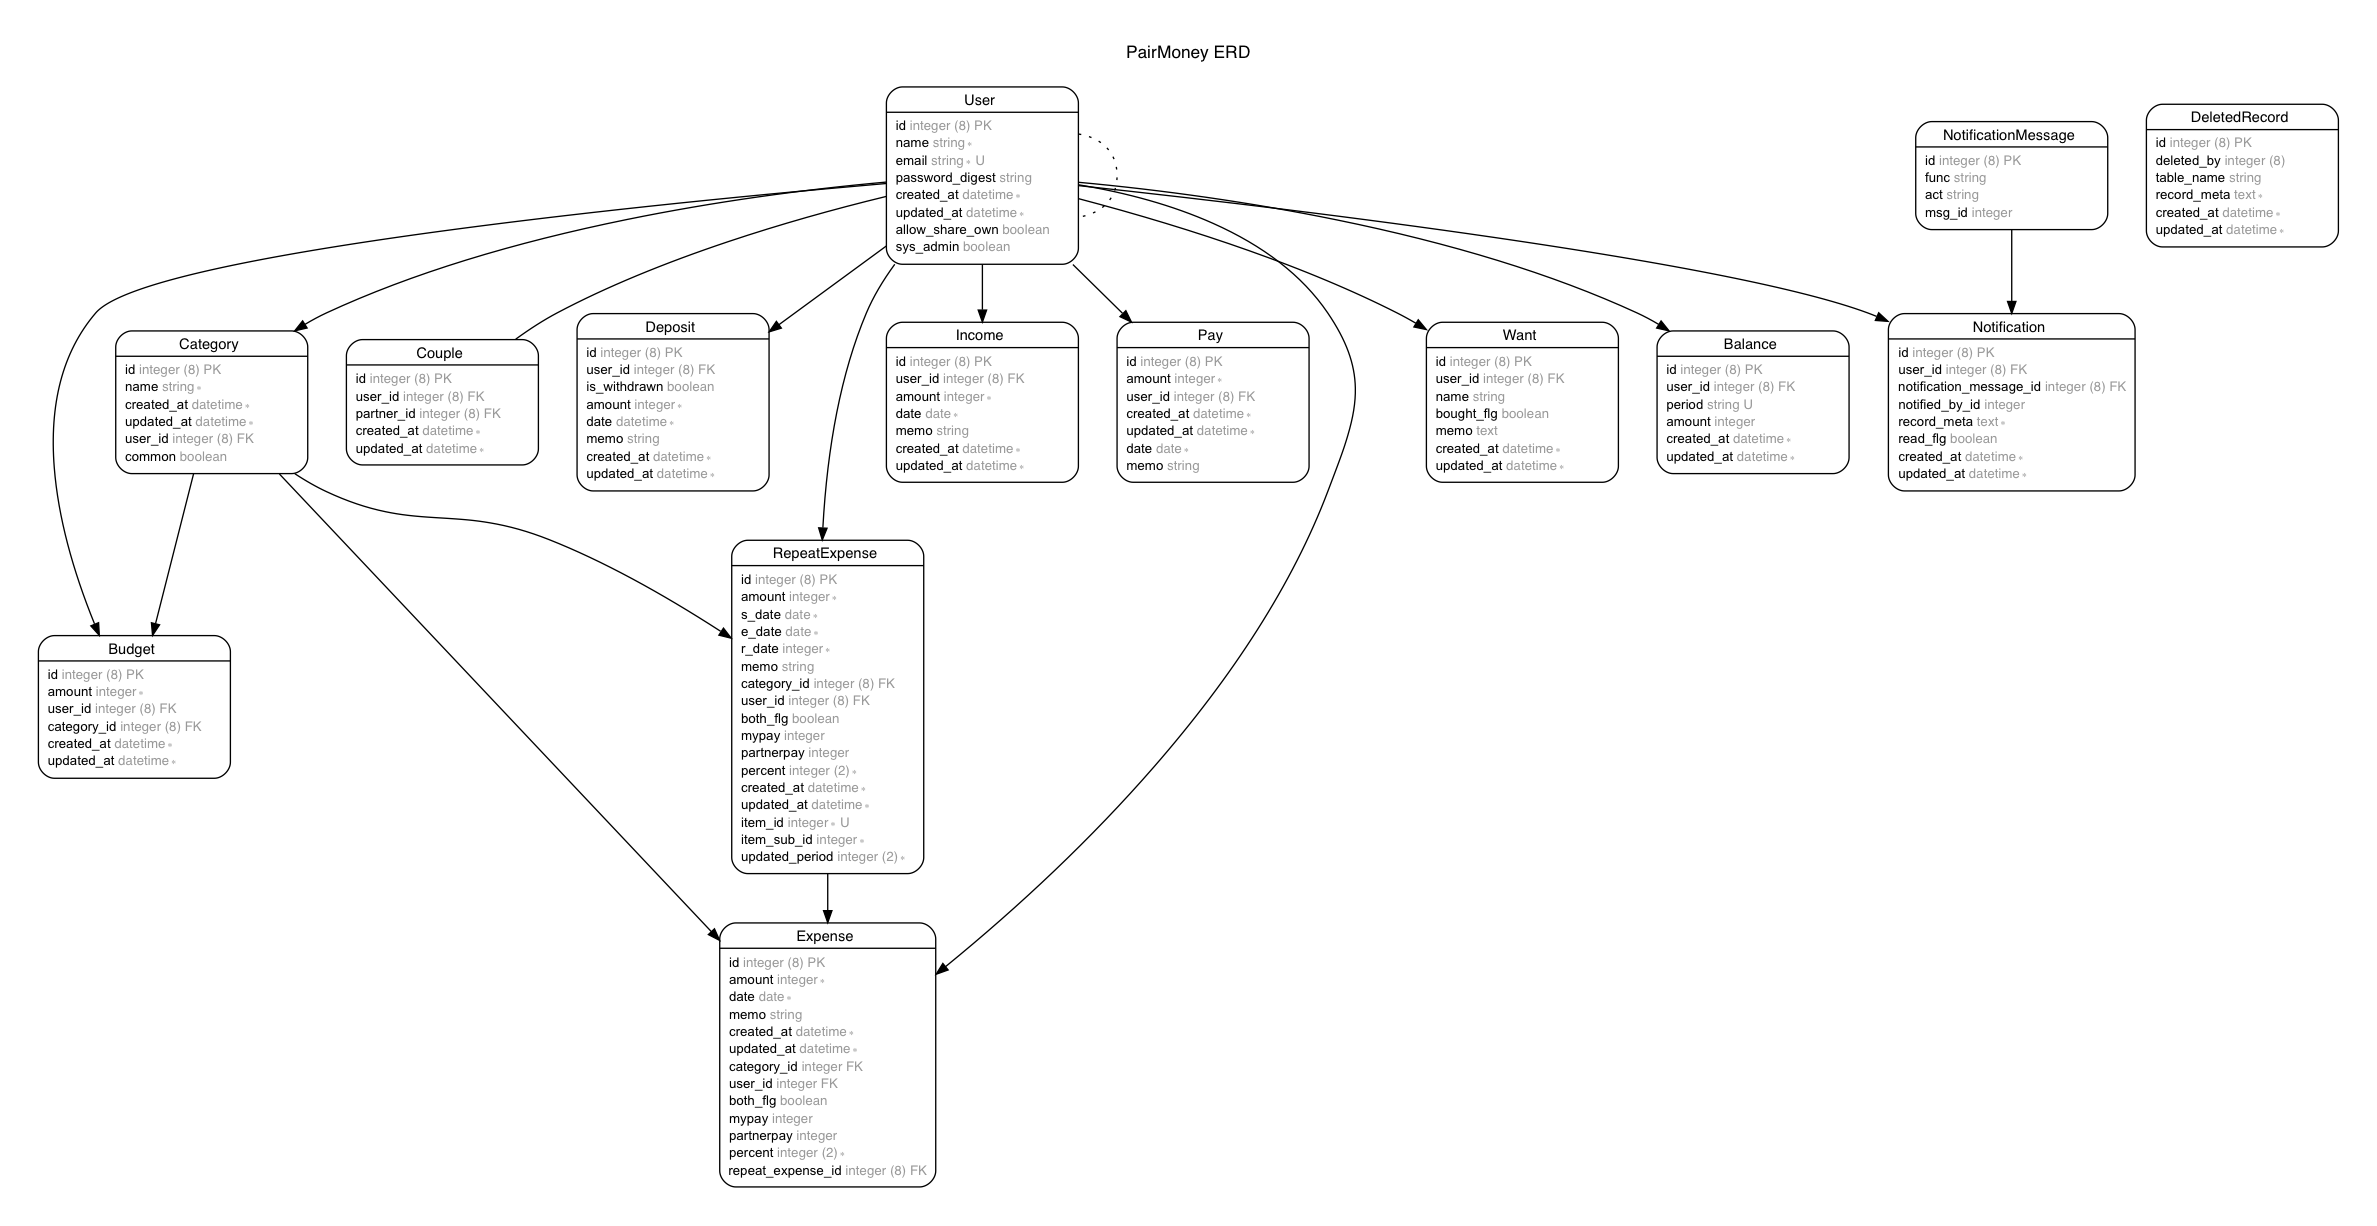
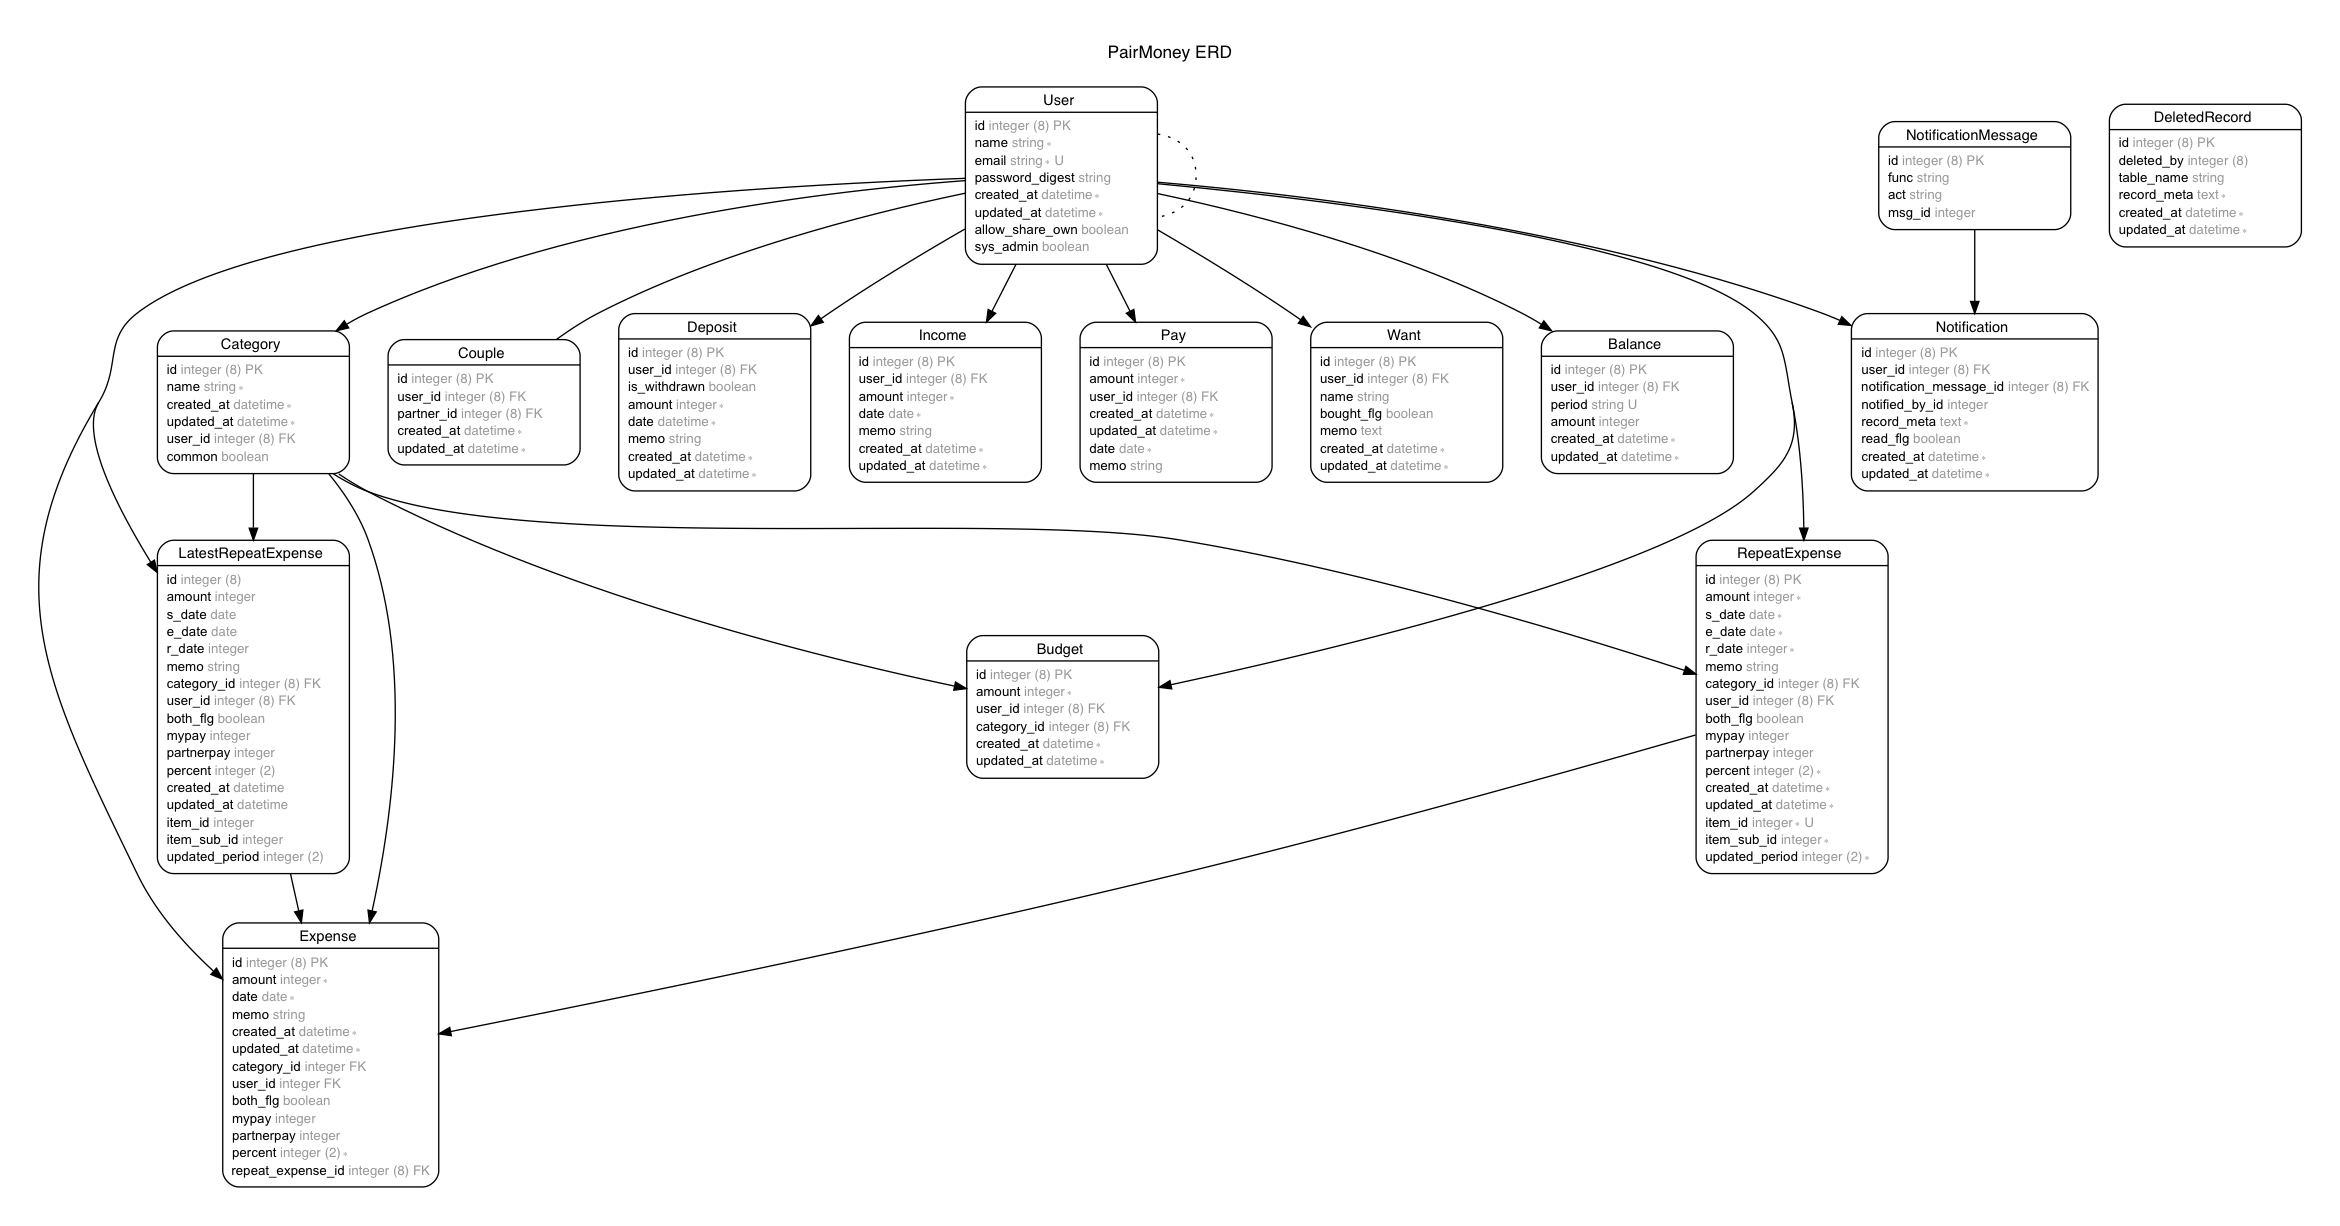
repeat_expense#indexで常に最新の繰り返し出費を表示 #56

diff --git a/app/assets/stylesheets/repeat_expenses.css b/app/assets/stylesheets/repeat_expenses.css
@@ -1,3 +1,9 @@
+.each-repeat-expense{
+  padding: 10px !important;
+}
+.over-end-date{
+  background-color: gray;
+}
 .own-or-both-icon{
   float: left;
   width: 15px;

diff --git a/db/schema.rb b/db/schema.rb
@@ -10,7 +10,7 @@
 #
 # It's strongly recommended that you check this file into your version control system.
 
-ActiveRecord::Schema.define(version: 2019_06_28_233621) do
+ActiveRecord::Schema.define(version: 2019_06_29_003259) do
 
   # These are extensions that must be enabled in order to support this database
   enable_extension "plpgsql"
@@ -187,4 +187,31 @@ ActiveRecord::Schema.define(version: 2019_06_28_233621) do
   add_foreign_key "repeat_expenses", "categories"
   add_foreign_key "repeat_expenses", "users"
   add_foreign_key "wants", "users"
+
+  create_view "latest_repeat_expenses", sql_definition: <<-SQL
+      SELECT repeat_expenses_a.id,
+      repeat_expenses_a.amount,
+      repeat_expenses_a.s_date,
+      repeat_expenses_a.e_date,
+      repeat_expenses_a.r_date,
+      repeat_expenses_a.memo,
+      repeat_expenses_a.category_id,
+      repeat_expenses_a.user_id,
+      repeat_expenses_a.both_flg,
+      repeat_expenses_a.mypay,
+      repeat_expenses_a.partnerpay,
+      repeat_expenses_a.percent,
+      repeat_expenses_a.created_at,
+      repeat_expenses_a.updated_at,
+      repeat_expenses_a.item_id,
+      repeat_expenses_a.item_sub_id,
+      repeat_expenses_a.updated_period
+     FROM (repeat_expenses repeat_expenses_a
+       JOIN ( SELECT repeat_expenses.item_id,
+              max(repeat_expenses.item_sub_id) AS max_item_sub_id
+             FROM repeat_expenses
+            GROUP BY repeat_expenses.item_id) repeat_expenses_b ON (((repeat_expenses_a.item_id = repeat_expenses_b.item_id) AND (repeat_expenses_a.item_sub_id = repeat_expenses_b.max_item_sub_id))))
+    WHERE (repeat_expenses_a.user_id = ANY (ARRAY[(1)::bigint, (2)::bigint]))
+    ORDER BY repeat_expenses_a.created_at DESC;
+  SQL
 end

diff --git a/app/models/latest_repeat_expense.rb b/app/models/latest_repeat_expense.rb
@@ -1,0 +1,46 @@
+# ## Schema Information
+#
+# Table name: `latest_repeat_expenses`
+#
+# ### Columns
+#
+# Name                  | Type               | Attributes
+# --------------------- | ------------------ | ---------------------------
+# **`id`**              | `bigint(8)`        |
+# **`amount`**          | `integer`          |
+# **`both_flg`**        | `boolean`          |
+# **`e_date`**          | `date`             |
+# **`memo`**            | `string`           |
+# **`mypay`**           | `integer`          |
+# **`partnerpay`**      | `integer`          |
+# **`percent`**         | `integer`          |
+# **`r_date`**          | `integer`          |
+# **`s_date`**          | `date`             |
+# **`updated_period`**  | `integer`          |
+# **`created_at`**      | `datetime`         |
+# **`updated_at`**      | `datetime`         |
+# **`category_id`**     | `bigint(8)`        |
+# **`item_id`**         | `integer`          |
+# **`item_sub_id`**     | `integer`          |
+# **`user_id`**         | `bigint(8)`        |
+#
+
+class LatestRepeatExpense < ApplicationRecord
+  include RepeatExpensesListsDisplayer
+
+  enum percent: { manual_amount: -1, pay_all: 0, pay_half: 1, pay_one_third: 2, pay_two_thirds: 3, pay_nothing: 4 }
+  enum updated_period: { first_item: 0, updated_all: 1, updated_only_future: 2 }
+
+  alias_attribute :is_for_both?, :both_flg
+
+  belongs_to :category
+  belongs_to :user
+  has_many :expenses, dependent: :destroy
+
+  alias_attribute :is_for_both?, :both_flg
+
+  def readonly?
+    true
+  end
+
+end

diff --git a/app/models/expense.rb b/app/models/expense.rb
@@ -35,6 +35,14 @@ class Expense < ApplicationRecord
   include BalanceHelper
   include PercentCalculator
 
+  # todo: これはテーブルを作ってユーザーが自由に変更できるようにする。
+  enum percent: { manual_amount: -1, pay_all: 0, pay_half: 1, pay_one_third: 2, pay_two_thirds: 3, pay_nothing: 4 }
+
+  attr_accessor :is_new, :is_destroyed, :differences
+  alias_method :is_new?, :is_new
+  alias_method :is_destroyed?, :is_destroyed
+  alias_attribute :is_for_both?, :both_flg
+
   belongs_to :user
   belongs_to :category
 
@@ -44,9 +52,6 @@ class Expense < ApplicationRecord
   validates_length_of :amount, :mypay, :partnerpay, maximum: 10
   validates_length_of :memo, maximum: 100
   validate :calculate_amount
-
-  # todo: これはテーブルを作ってユーザーが自由に変更できるようにする。
-  enum percent: { manual_amount: -1, pay_all: 0, pay_half: 1, pay_one_third: 2, pay_two_thirds: 3, pay_nothing: 4 }
 
   end_of_this_month = Date.today.end_of_month
   beginning_of_this_month = Date.today.beginning_of_month
@@ -62,11 +67,6 @@ class Expense < ApplicationRecord
   scope :both_f, -> {where(both_flg: false)}
   scope :both_t, -> {where(both_flg: true)}
   scope :newer, -> {order(date: :desc, created_at: :desc)}
-
-  attr_accessor :is_new, :is_destroyed, :differences
-  alias_method :is_new?, :is_new
-  alias_method :is_destroyed?, :is_destroyed
-  alias_attribute :is_for_both?, :both_flg
 
   after_initialize { self.is_new = true unless self.id }
   before_save :set_differences

diff --git a/app/models/repeat_expense.rb b/app/models/repeat_expense.rb
@@ -16,7 +16,7 @@
 # **`percent`**         | `integer`          | `default("pay_all"), not null`
 # **`r_date`**          | `integer`          |
 # **`s_date`**          | `date`             |
-# **`updated_period`**  | `integer`          | `default(0), not null`
+# **`updated_period`**  | `integer`          | `default("first_item"), not null`
 # **`created_at`**      | `datetime`         | `not null`
 # **`updated_at`**      | `datetime`         | `not null`
 # **`category_id`**     | `bigint(8)`        |
@@ -45,10 +45,12 @@
 
 class RepeatExpense < ApplicationRecord
   include PercentCalculator
+  include RepeatExpensesListsDisplayer
 
   enum percent: { manual_amount: -1, pay_all: 0, pay_half: 1, pay_one_third: 2, pay_two_thirds: 3, pay_nothing: 4 }
-
   enum updated_period: { first_item: 0, updated_all: 1, updated_only_future: 2 }
+
+  alias_attribute :is_for_both?, :both_flg
 
   belongs_to :category
   belongs_to :user
@@ -66,8 +68,6 @@ class RepeatExpense < ApplicationRecord
   scope :both_f, -> {where(both_flg: false)}
   scope :both_t, -> {where(both_flg: true)}
   scope :newer, -> {order(updated_at: :desc)}
-
-  alias_attribute :is_for_both?, :both_flg
 
   def self.ones_expenses(user)
     user.repeat_expenses.both_f.newer

diff --git a/spec/models/latest_repeat_expense_spec.rb b/spec/models/latest_repeat_expense_spec.rb
@@ -1,0 +1,32 @@
+# ## Schema Information
+#
+# Table name: `latest_repeat_expenses`
+#
+# ### Columns
+#
+# Name                  | Type               | Attributes
+# --------------------- | ------------------ | ---------------------------
+# **`id`**              | `bigint(8)`        |
+# **`amount`**          | `integer`          |
+# **`both_flg`**        | `boolean`          |
+# **`e_date`**          | `date`             |
+# **`memo`**            | `string`           |
+# **`mypay`**           | `integer`          |
+# **`partnerpay`**      | `integer`          |
+# **`percent`**         | `integer`          |
+# **`r_date`**          | `integer`          |
+# **`s_date`**          | `date`             |
+# **`updated_period`**  | `integer`          |
+# **`created_at`**      | `datetime`         |
+# **`updated_at`**      | `datetime`         |
+# **`category_id`**     | `bigint(8)`        |
+# **`item_id`**         | `integer`          |
+# **`item_sub_id`**     | `integer`          |
+# **`user_id`**         | `bigint(8)`        |
+#
+
+require 'rails_helper'
+
+RSpec.describe LatestRepeatExpense, type: :model do
+  pending "add some examples to (or delete) #{__FILE__}"
+end

diff --git a/spec/factories/latest_repeat_expenses.rb b/spec/factories/latest_repeat_expenses.rb
@@ -1,0 +1,32 @@
+# ## Schema Information
+#
+# Table name: `latest_repeat_expenses`
+#
+# ### Columns
+#
+# Name                  | Type               | Attributes
+# --------------------- | ------------------ | ---------------------------
+# **`id`**              | `bigint(8)`        |
+# **`amount`**          | `integer`          |
+# **`both_flg`**        | `boolean`          |
+# **`e_date`**          | `date`             |
+# **`memo`**            | `string`           |
+# **`mypay`**           | `integer`          |
+# **`partnerpay`**      | `integer`          |
+# **`percent`**         | `integer`          |
+# **`r_date`**          | `integer`          |
+# **`s_date`**          | `date`             |
+# **`updated_period`**  | `integer`          |
+# **`created_at`**      | `datetime`         |
+# **`updated_at`**      | `datetime`         |
+# **`category_id`**     | `bigint(8)`        |
+# **`item_id`**         | `integer`          |
+# **`item_sub_id`**     | `integer`          |
+# **`user_id`**         | `bigint(8)`        |
+#
+
+FactoryBot.define do
+  factory :latest_repeat_expense do
+    
+  end
+end

diff --git a/app/controllers/repeat_expenses_controller.rb b/app/controllers/repeat_expenses_controller.rb
@@ -3,8 +3,7 @@ class RepeatExpensesController < ApplicationController
   include CategoriesHelper
 
   def index
-    #fixme: group_byを使って、item_sub_idが最大のものだけ取得するように変更する。
-    @repeat_expenses = RepeatExpense.includes(:user, :category).where(user: [@current_user, @partner]).order(created_at: :desc)
+    @repeat_expenses = LatestRepeatExpense.includes(:user, :category).where(user: [@current_user, @partner]).order(item_id: :desc)
   end
 
   def new

diff --git a/spec/decorators/latest_repeat_expense_decorator_spec.rb b/spec/decorators/latest_repeat_expense_decorator_spec.rb
@@ -1,0 +1,7 @@
+require 'rails_helper'
+
+RSpec.describe LatestRepeatExpenseDecorator do
+  let(:latest_repeat_expense) { LatestRepeatExpense.new.extend LatestRepeatExpenseDecorator }
+  subject { latest_repeat_expense }
+  it { should be_a LatestRepeatExpense }
+end

diff --git a/app/models/concerns/repeat_expenses_lists_displayer.rb b/app/models/concerns/repeat_expenses_lists_displayer.rb
@@ -1,0 +1,5 @@
+module RepeatExpensesListsDisplayer
+  def is_own_expense?(user, category=self.category)
+    !is_for_both? && self.user == user && self.category == category
+  end
+end

diff --git a/app/decorators/latest_repeat_expense_decorator.rb b/app/decorators/latest_repeat_expense_decorator.rb
@@ -1,0 +1,7 @@
+module LatestRepeatExpenseDecorator
+  include RepeatExpenseDecorator
+
+  def gray_out
+    e_date < Date.current ? "over-end-date" : ""
+  end
+end

diff --git a/db/migrate/20190629003259_create_latest_repeat_expenses.rb b/db/migrate/20190629003259_create_latest_repeat_expenses.rb
@@ -1,0 +1,5 @@
+class CreateLatestRepeatExpenses < ActiveRecord::Migration[5.2]
+  def change
+    create_view :latest_repeat_expenses
+  end
+end
